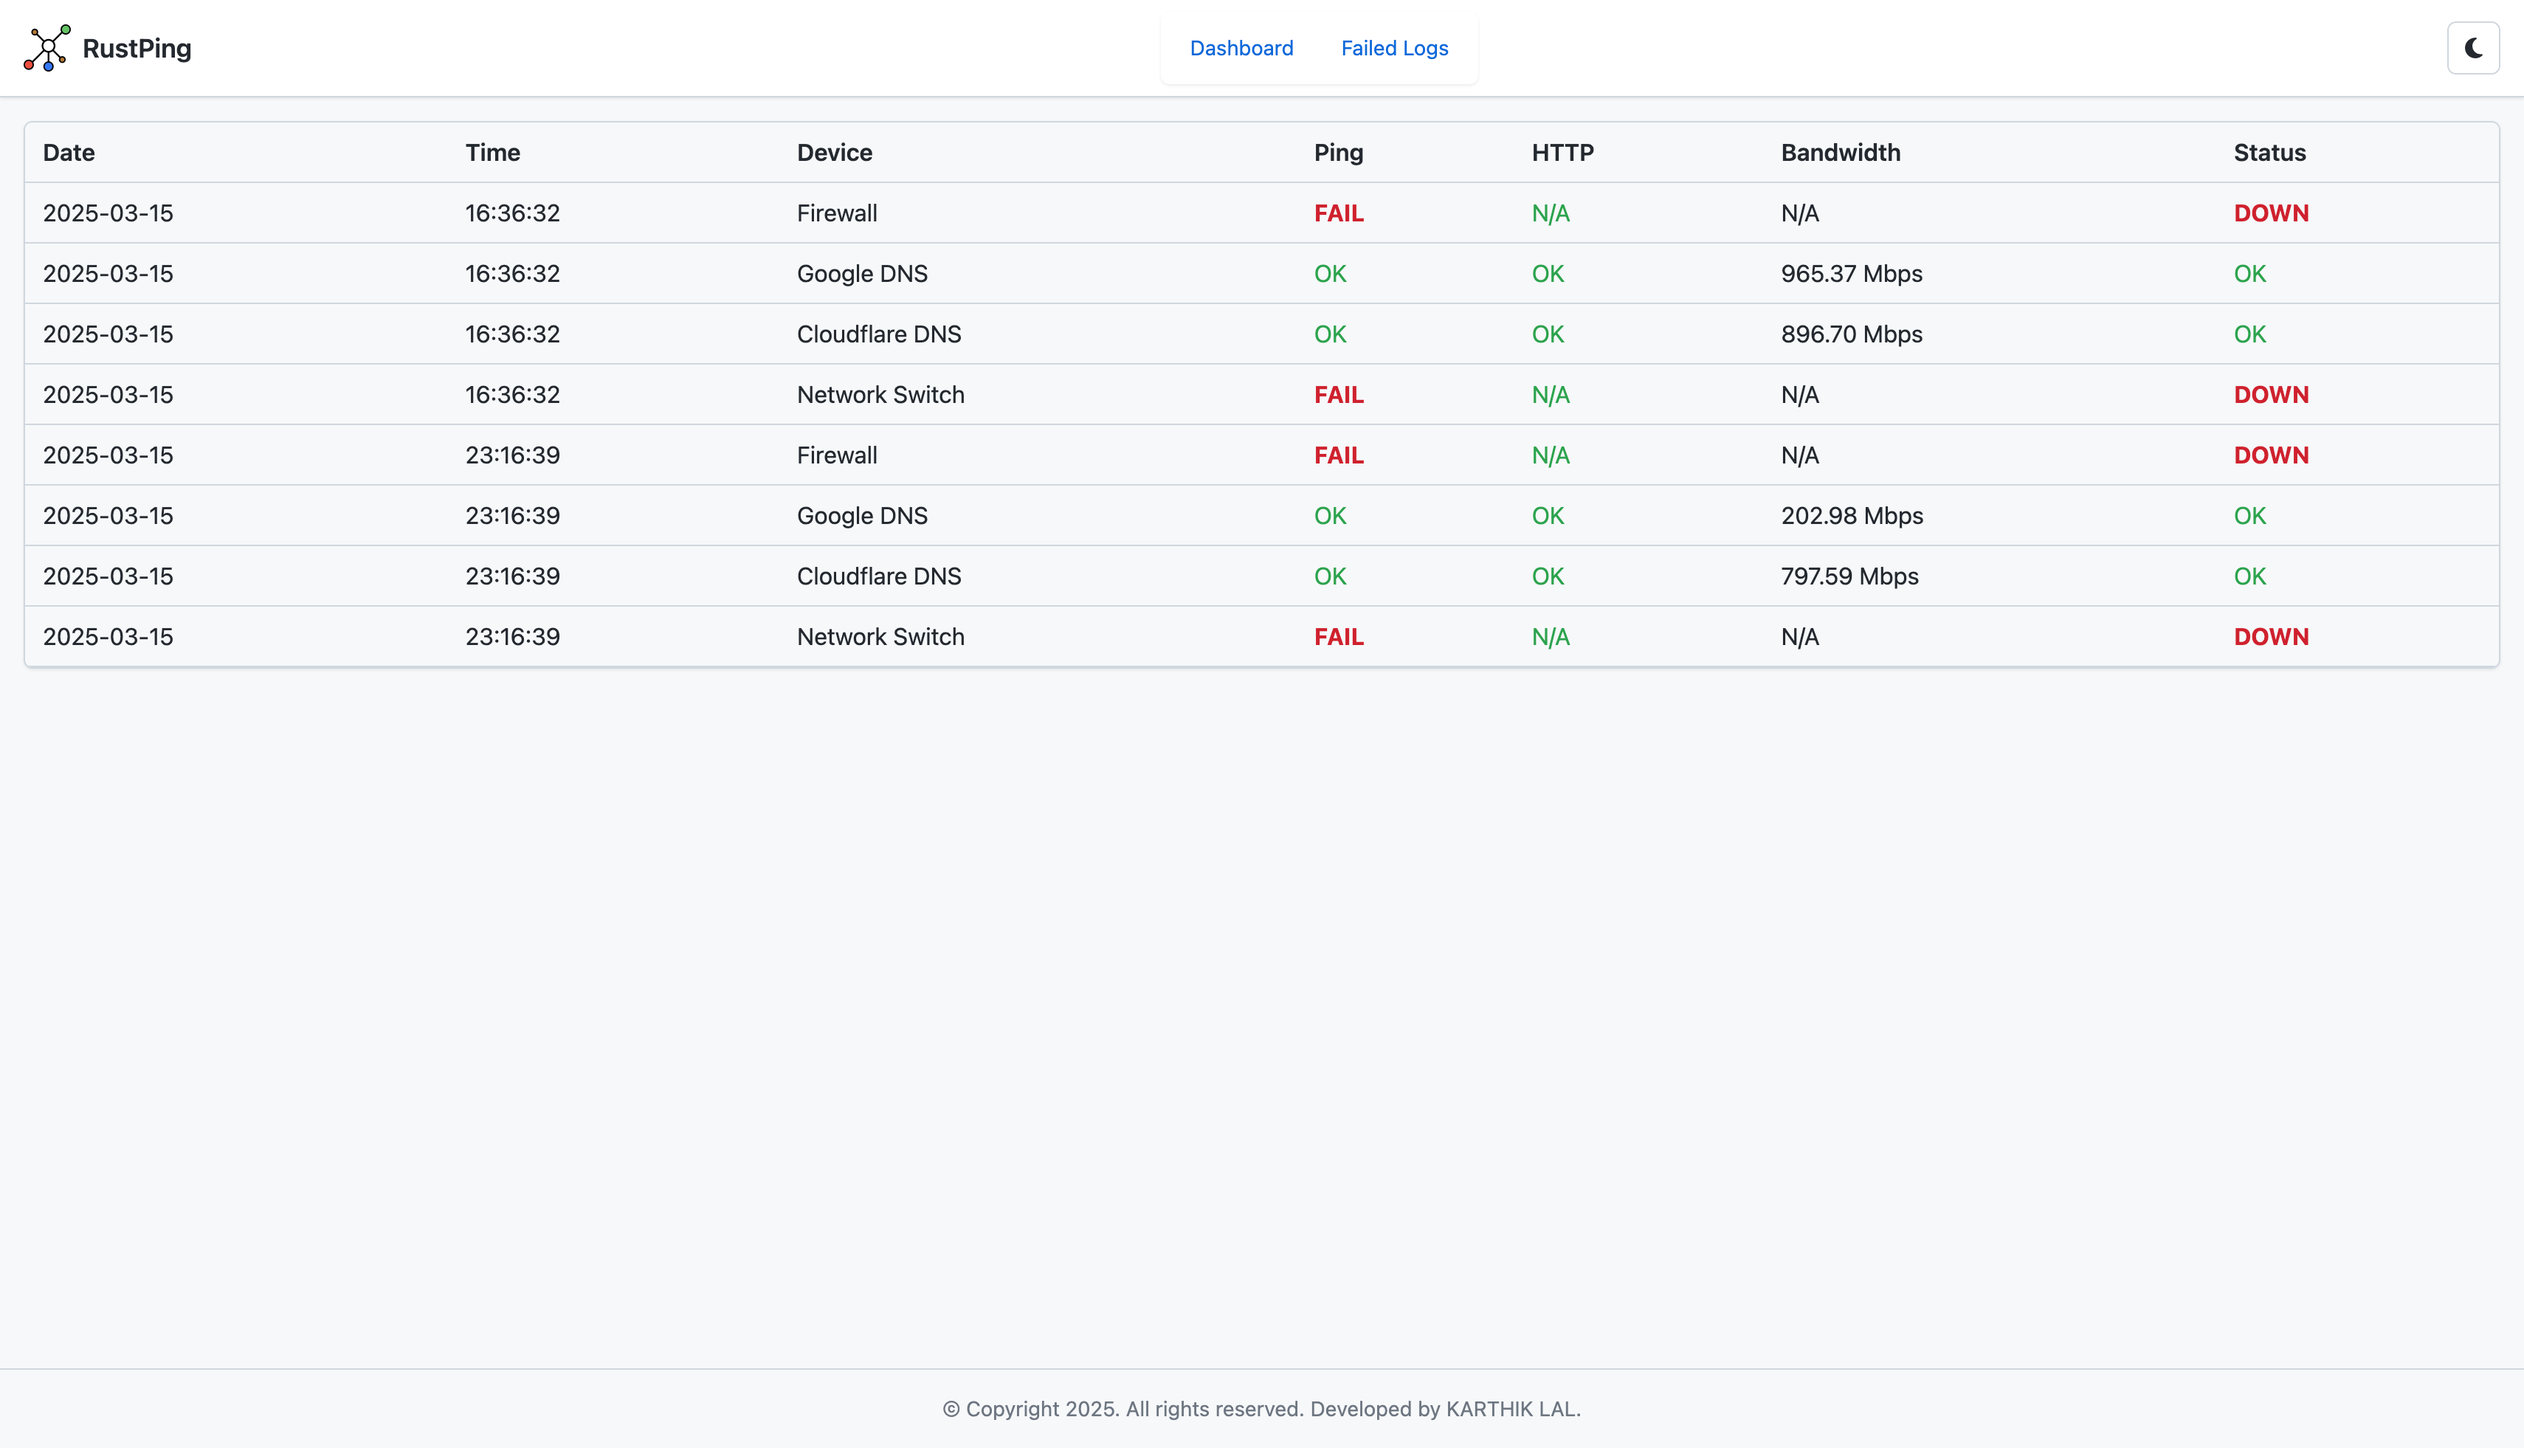
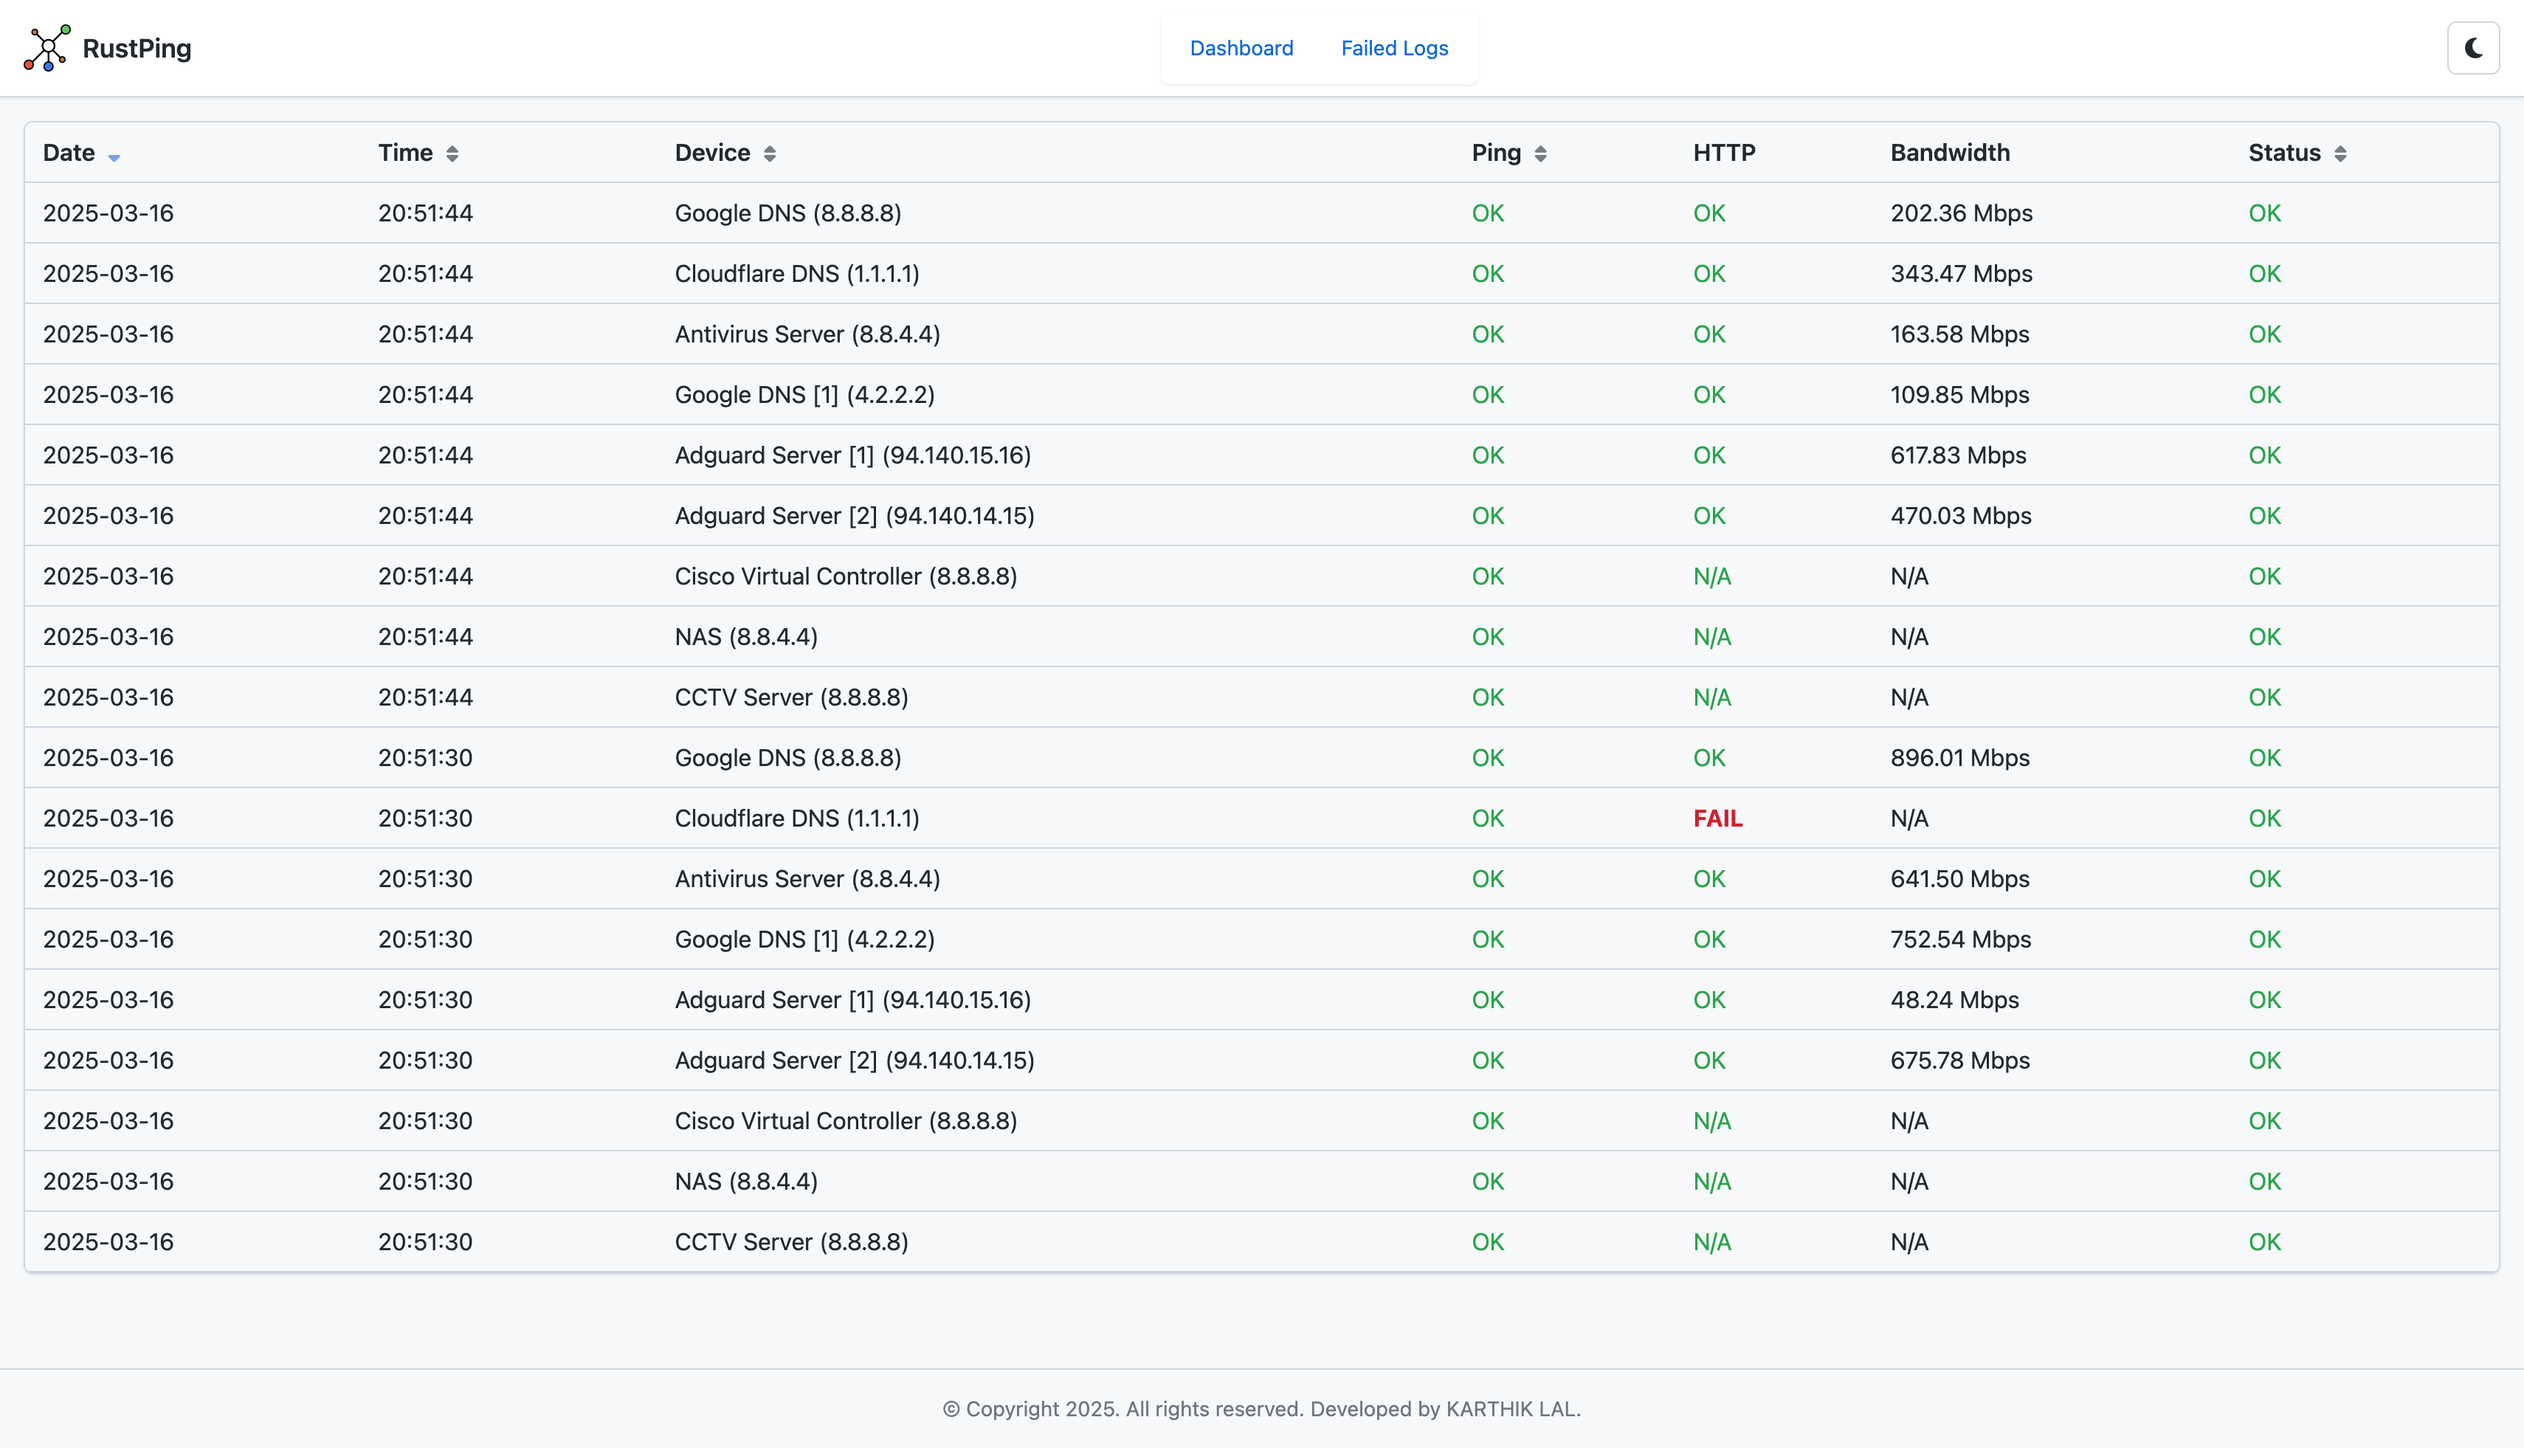
rPing: docs: cargo: update dependencies and enhance README with device management features and responsive design

diff --git a/README.md b/README.md
@@ -22,14 +22,17 @@ RustPing is a powerful, real-time network monitoring tool built with Rust and th
 *   **🌙 / ☀  Dark/Light Mode:** Choose the theme that suits your preference.
 *   **📅 Log Export:** Export logs in CSV or TXT format for offline analysis.
 *   **🔐 User Authentication:** Secure access with a login system (and planned role-based access).
+*   **📱 Responsive Design:**  Works seamlessly on various devices, including desktops and tablets.
+*   **🛠 Device Dashboard** Users can add devices from front-end itself without editing the JSON.
 
 ## 🚧 Roadmap
 
 These features are planned for future development:
 
+*   **✅ Upcoming: User authentication and role-based access control:**  Control access and permissions.
+*   **✅ Upcoming: Add device management features:**  Add, remove, and edit devices from the dashboard.
 *   **🔴 Upcoming: New Sensors (TCP, UDP, etc.):**  Expand monitoring capabilities.
 *   **🔴 Upcoming: Email/SMS Notifications:**  Get alerts for critical device status changes.
-*   **✅ Upcoming: User authentication and role-based access control:**  Control access and permissions.
 *   **🔴 Upcoming: Docker Support:** Simplify deployment and portability.
 *   **🔴 Upcoming: Mobile App:** Monitor your network on the go.
 
@@ -37,11 +40,13 @@ These features are planned for future development:
 
 | Dark Mode                                  | Light Mode                                    |
 | :----------------------------------------- | :-------------------------------------------- |
-| ![Dashboard-Dark](screenshots/dashboardHome-dark.png) | ![Dashboard-Light](screenshots/dashboardHome-light.png) |
-| ![Live-Log-Dark](screenshots/liveLog-dark.png)     | ![Live-Log-Light](screenshots/liveLog-light.png)     |
-| ![Fail-Log-Dark](screenshots/failedLog-dark.png)   | ![Fail-Log-Light](screenshots/failedLog-light.png)   |
-| ![Login-Dark](screenshots/loginDark.png)        | ![Login-Light](screenshots/loginLight.png)          |
-| ![Pass-Reset-Dark](screenshots/passReset-dark.png) | ![Pass-Reset-Light](screenshots/passReset-light.png)  |
+| ![Auth-Dark](screenshots/authLogin-dark.png)          | ![Auth-Light](screenshots/authLogin-light.png)     |
+| ![Login-Dark](screenshots/loginDark.png)              | ![Login-Light](screenshots/loginLight.png)|
+| ![Pass-Reset-Dark](screenshots/passReset-dark.png)    | ![Pass-Reset-Light](screenshots/passReset-light.png)  |
+| ![Device-Dark](screenshots/devDashBoard-dark.png)     | ![Device-Light](screenshots/devDashBoard-light.png) |
+| ![Dashboard-Dark](screenshots/dashboardHome-dark.png) | ![Dashboard-Light](screenshots/dashboardHome-light.png)   |
+| ![Live-Log-Dark](screenshots/liveLog-dark.png)        | ![Live-Log-Light](screenshots/liveLog-light.png)     |
+| ![Fail-Log-Dark](screenshots/failedLog-dark.png)      | ![Fail-Log-Light](screenshots/failedLog-light.png)   |
 
 ## 📖 Table of Contents
 
@@ -52,6 +57,7 @@ These features are planned for future development:
 *   [Default Password](#-default-password-for-webui)
 *   [Configuration](#-configuration)
 *   [Usage](#-usage)
+*   [Adding Devices](#-adding-devices)
 *   [API Endpoints](#-api-endpoints)
 *   [Contributing](#-contributing)
 *   [License](#-license)
@@ -147,7 +153,7 @@ These features are planned for future development:
 
 **Important:** Change the default password immediately after your first login for security reasons!
 
-## ⚙ Configuration
+## ⚙ Configuration (Optional)
 
 The `devices.json` file in the project's root directory controls which devices are monitored.  Edit this file to add, remove, or modify devices.  The file uses JSON format:
 
@@ -186,6 +192,13 @@ The `devices.json` file in the project's root directory controls which devices a
 4.  **View Details:** Click on entries in the tables to see more detailed information.
 5. **Export Logs:** Use the log export form to generate CSV or TXT files of your monitoring data.
 
+## 🖥 Adding Devices
+1.  **Access the Dashboard:** Open `http://127.0.0.1:8000/static/manage-devices.html` in your web browser.
+2.  **Add Device:** Fill in the form with the device's name, IP address, Category, and sensors.  Click "Add Device" to save it to the `devices.json` file.
+3. **View Devices:** After adding devices, you can view them listed on the dashboard. (Note: this will be updated in real-time without needing to refresh the page but wait for a few seconds for the changes to reflect).
+4. **Edit Device:** Click on the device name to edit its details.  You can change the name, IP address, and sensors. (Note: Cant edit the category for now).
+5. **Delete Device:** Click on the "Delete" button next to the device you want to remove.  Confirm the deletion in the popup dialog.
+
 ## 📡 API Endpoints
 
 RustPing provides a REST API for interacting with the application programmatically.
@@ -202,6 +215,9 @@ RustPing provides a REST API for interacting with the application programmatical
 | `POST`  | `/update-password`           | Updates the user's password.                   |
 | `POST` | `/login` | For user login. |
 | `GET`    | `/logout`                     | Logs the current user out.                      |
+| `POST` | `/add_device`                | Adds a new device to the `devices.json` file.   |
+| `POST` | `/delete_device`             | Deletes a device from the `devices.json` file.  |
+| `POST` | `/update_device`             | Updates an existing device in the `devices.json` file. |
 
 ## 🤝 Contributing
 
